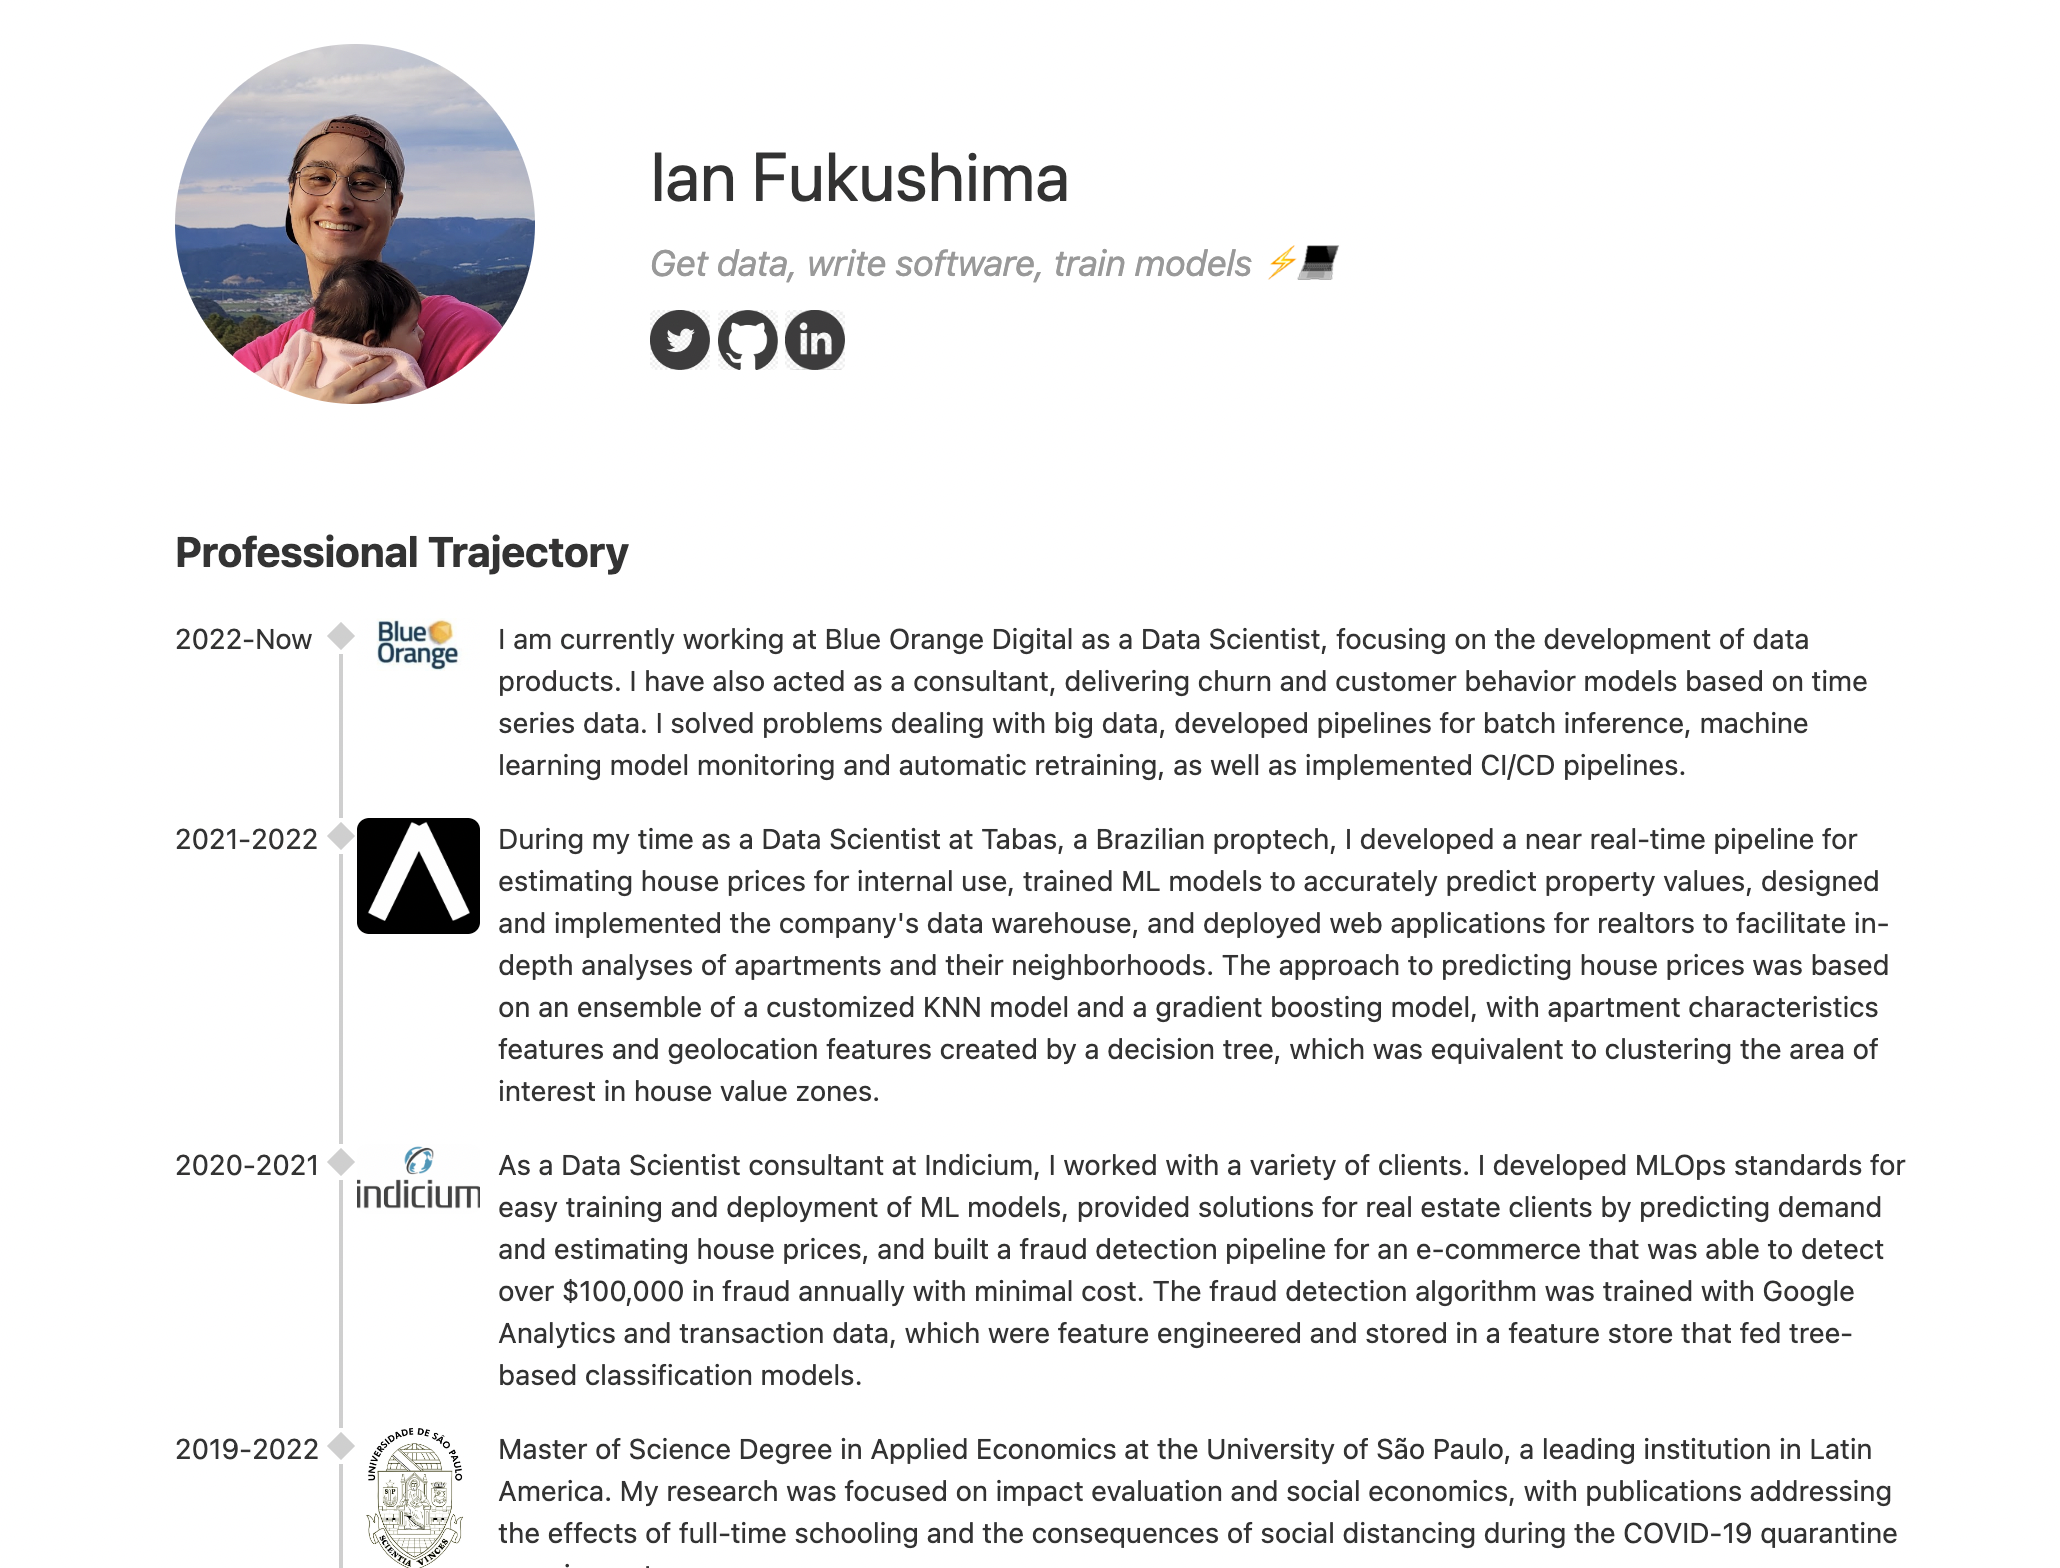
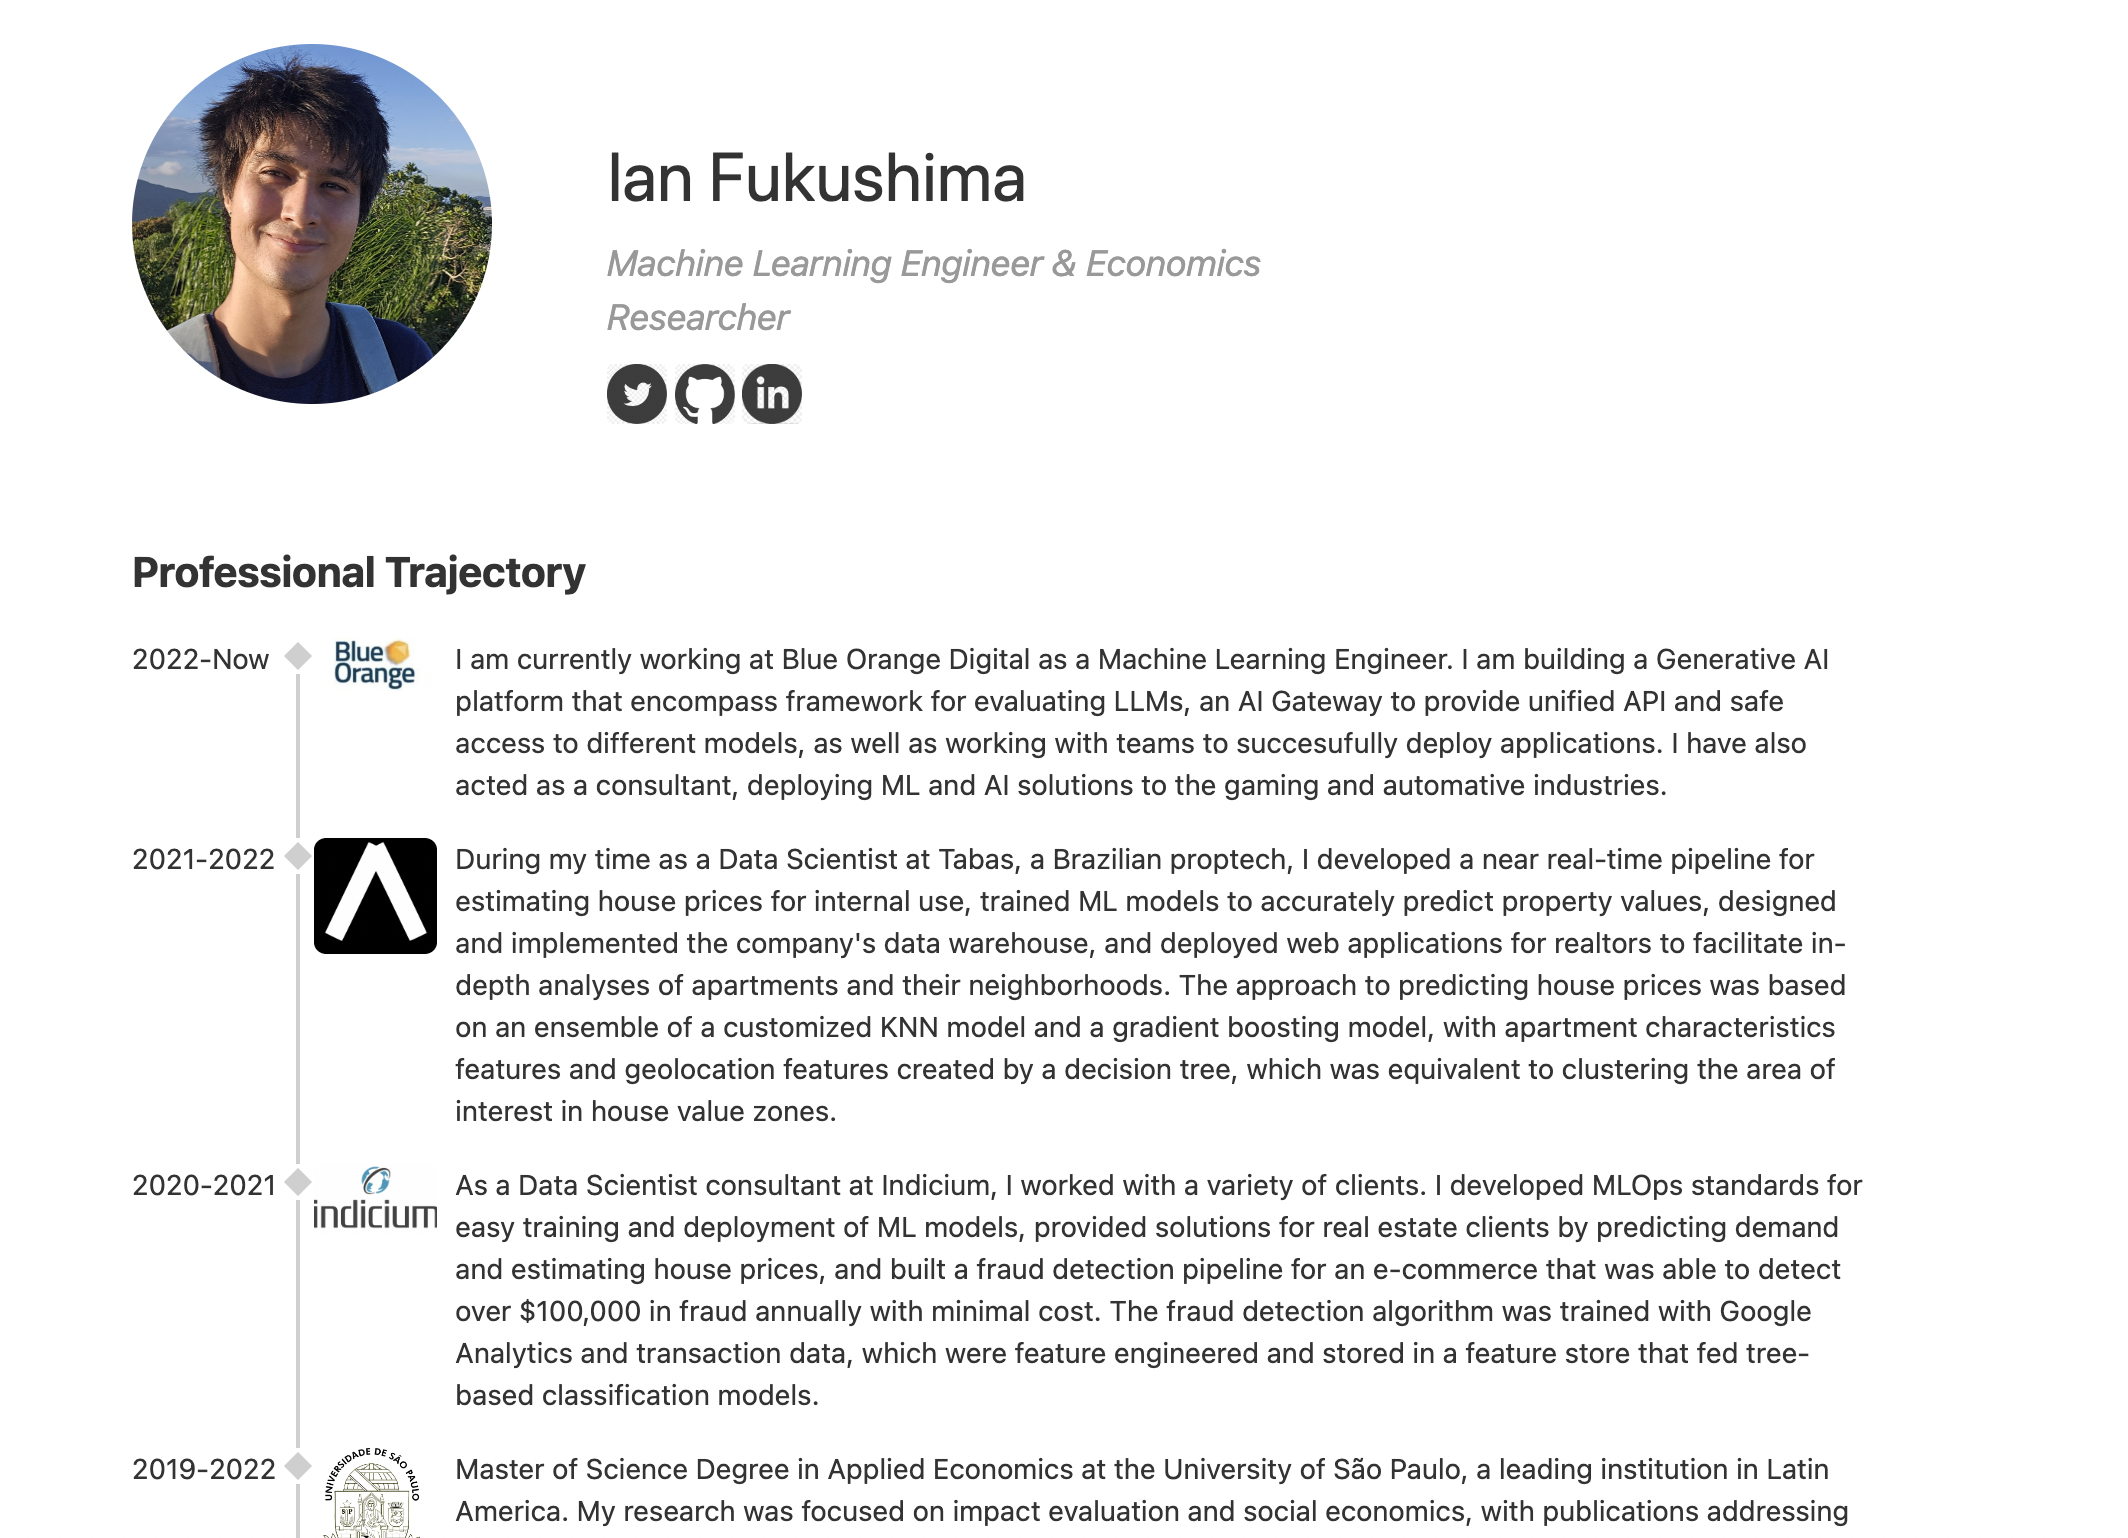
add media section and update

Changed region(s): [[0.0621, 0.3433, 0.932, 1.0], [0.0621, 0.0312, 0.6524, 0.2809]]

diff --git a/templates/index.html b/templates/index.html
@@ -16,7 +16,7 @@
                 </div>
                 <div id="name-title">
                     <h1>Ian Fukushima</h1>
-                    <h3>Get data, write software, train models ⚡💻</h3>
+                    <h3> Machine Learning Engineer & Economics Researcher </h3>
                     <div id="media">
                         <a href="https://twitter.com/IanIanfukushima"><img src="/static/assets/twitter.png" class="iico" /></a>
                         <a href="https://github.com/isfuku"><img src="/static/assets/github.png" class="iico"/></a>
@@ -38,12 +38,11 @@
                         <img src="/static/assets/bod.png" />
                     </div>
                     <div class="timeline-description">
-                        I am currently working at Blue Orange Digital as a Data Scientist, focusing on the development 
-                        of data products. I have also acted as a consultant, delivering 
-                        churn and customer behavior models based on time series data. I solved 
-                        problems dealing with big data, developed pipelines for batch inference, 
-                        machine learning model monitoring and automatic retraining, as well as 
-                        implemented CI/CD pipelines.
+                        I am currently working at Blue Orange Digital as a Machine Learning Engineer. I am building a 
+                        Generative AI platform that encompass framework for evaluating LLMs, an AI Gateway to provide 
+                        unified API and safe access to different models, as well as working with teams to succesufully 
+                        deploy applications. I have also acted as a consultant, deploying ML and AI solutions to the gaming 
+                        and automative industries.
                     </div>
                 </div>
 
@@ -123,11 +122,6 @@
                     </div>
                     <div class="research-venue">, Master's Dissertation, 2022.</div>
                     <div class="research-authors">Ian Fukushima, Luiz Scorzafave.</div>
-                    <!-- <div class="research-imgs">
-                        <div class="research-img">
-                            <img style="top: 0; left: 50.5%; width: 80%;" src="/static/assets/theft_impact.png"/>
-                        </div>
-                    </div> -->
                 </div>
                 <!-- COVID-19 underreporting -->
                 <div class="research-entry">
@@ -137,32 +131,30 @@
                     </div>
                     <div class="research-venue">, 2020.</div>
                     <div class="research-authors">Ian Fukushima.</div>
-                    <!-- <div class="research-imgs">
-                        <div class="research-img">
-                            <img style="top: 0; left: 50.5%; width: 30%;" src="/static/assets/covid_pred.png" />
-                            <img style="top: 0; left: 50.5%; width: 30%;" src="/static/assets/underreport_pred.png" />
-                            <img style="top: 0; left: 50.5%; width: 37%;" src="/static/assets/underreport_map.png" />
-                        </div>
-                    </div> -->
                 </div>
             </div>
         </div>
 
-        <!-- Misc -->
+        <!-- Media Publications -->
         <div class="container">
-            <h2 class="h2-title">Misc</h2>
-            <div class="misc">
-                <div class="misc-entry">
-                    <div class="misc-entry-dot"></div>
-                    <div class="misc-entry-text">
-                        <a href="https://www.instagram.com/foleirada/">I have a beutiful family and I want people to know.</a>
+            <h2 class="h2-title">Media Publications</h2>
+            <div class="media">
+                <div class="media-entry">
+                    <div class="media-entry-dot"></div>
+                    <div class="media-entry-text">
+                        <a href="https://huggingface.co/arcadinis/opus-mt-tc-big-en-pt-finetuned-en-to-pt">A transformer finetuned for chunking</a>
                     </div>
                 </div>
-                <div class="misc-entry">
-                    <div class="misc-entry-dot"></div>
-                    <div class="misc-entry-text">
-                        I recorded <a href="https://soundcloud.com/ian-fukushima-703252952">some lo-fi songs</a> in my bedroom 
-                        back when I wasn't confident I wanted to be a researcher and didn't know about data science.
+                <div class="media-entry">
+                    <div class="media-entry-dot"></div>
+                    <div class="media-entry-text">
+                        <a href="https://medium.com/blue-orange-digital/document-chunking-guided-journey-final-ascent-with-supervised-learning-92534033595e">A series of articles about document chunking</a>
+                    </div>
+                </div>
+                <div class="media-entry">
+                    <div class="media-entry-dot"></div>
+                    <div class="media-entry-text">
+                        <a href="https://medium.com/blue-orange-digital/language-models-task-specific-models-vs-llms-apis-991c0a8f6347">Task-Specific Models vs. LLMs APIs</a>
                     </div>
                 </div>
             </div>

diff --git a/static/styles.css b/static/styles.css
@@ -180,16 +180,16 @@ h3 {
     padding: 0;
 }
 
-/* Misc */
-.misc {
+/* Media */
+.media {
     margin-bottom: 10px;
 }
 
-.misc-entry {
+.media-entry {
     position: relative;
     display: inline;
 }
-.misc-entry-dot {
+.media-entry-dot {
     content: "";
     width: 10px;
     height: 10px;
@@ -199,7 +199,7 @@ h3 {
     top: 4px;
     transform: rotate(45deg);
 }
-.misc-entry-text {
+.media-entry-text {
     padding-left: 16px;
     margin-bottom: 10px;
 }

diff --git a/README.md b/README.md
@@ -1,5 +1,11 @@
 # My Personal Website
 
-Repository with code for [my personal website](https://www.ianfukushima.com/). It was heavily inspired by [karpathy's website](https://karpathy.ai/). It looks like this:
+Repository with code for [my personal website](https://www.ianfukushima.com/).
 
 ![Preview of personal website](preview.png)
+
+## To Run Locally
+```bash
+pip install -r requirements.txt
+flask --app app.py --debug run
+```
